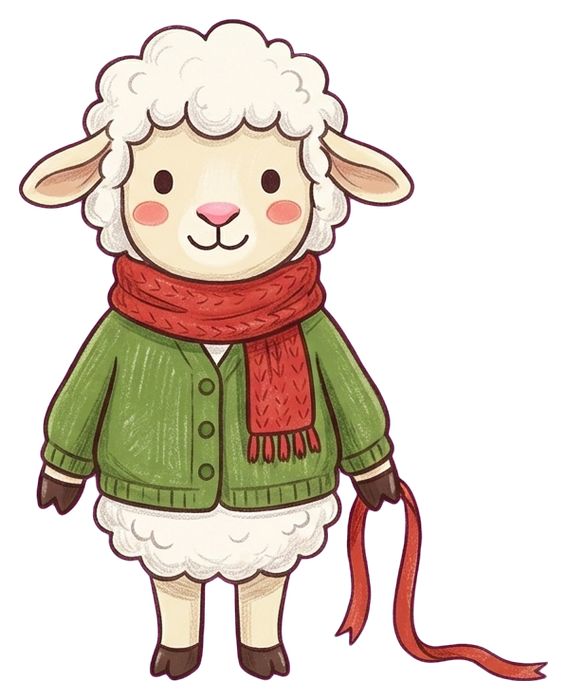
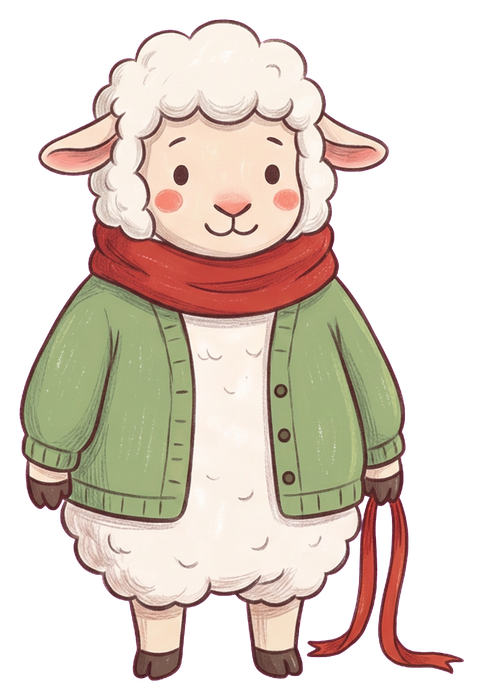
Christmas: Holly's talk pose redrawn as plump as her working pose (Higgsfield, from the working sprite), user request

diff --git a/index.html b/index.html
@@ -4046,7 +4046,8 @@ const SPRITES = {
   // the Christmas star case (scripts/cut-christmas-assets.py): Holly, May (seated, as she works), Nico
   // Holly and May look at the detective while they talk (user request); at their own place, not talking, they work
   // (the :work pose, spriteKey). Talk poses: one sheet, scripts/cut-christmas-talk.py
-  holly:{src:'assets/characters/holly-talk.png', w:567, h:700, face:'45 5 360 360', anchor:.42},
+  // redrawn as plump as her working pose (user: talking she turned too slim; scripts/cut-holly-talk.py)
+  holly:{src:'assets/characters/holly-talk.png', w:483, h:700, face:'40 0 360 360', anchor:.45},
   mae:{src:'assets/characters/mae-talk.png', w:449, h:700, face:'45 10 350 350', anchor:.45},
   // flip: drawn mirrored (user request: working, Holly faces the table on her left in the storeroom)
   'holly:work':{src:'assets/characters/holly-higgsfield.png', w:412, h:700, anchor:.5, flip:true},

diff --git a/scripts/cut-holly-talk.py b/scripts/cut-holly-talk.py
@@ -1,0 +1,29 @@
+"""Cut Holly's talk pose (redrawn as plump as her working pose, user request) out of its Higgsfield picture.
+
+usage: python scripts/cut-holly-talk.py
+  reads assets/characters/holly-talk2-higgsfield-original.png (one figure on flat magenta), writes
+  assets/characters/holly-talk.png the same way as cut-christmas-talk.py (magenta keyed out, trimmed with a 3% margin,
+  700 px high). Replaces the slimmer talk pose cut from holly-mae-talk-higgsfield-original.png.
+"""
+import importlib.util, sys
+sys.argv[1:] = ["."]   # cut-christmas-assets reads its download folder at import
+from PIL import Image
+
+spec = importlib.util.spec_from_file_location('cut', 'scripts/cut-christmas-assets.py')
+cut = importlib.util.module_from_spec(spec); spec.loader.exec_module(cut)
+
+src = Image.open('assets/characters/holly-talk2-higgsfield-original.png').convert('RGBA')
+px = src.load()
+w, h = src.size
+for y in range(h):
+    for x in range(w):
+        r, g, b, _ = px[x, y]
+        m = min(r, b) - g
+        if m > 120: px[x, y] = (0, 0, 0, 0)
+        elif m > 50:
+            a = round(255 * (120 - m) / 70)
+            k = min(r, b) - max(g, 0)
+            px[x, y] = (max(0, r - k // 2), g, max(0, b - k // 2), a)
+fig = cut.trim(src, height=700)
+fig.save('assets/characters/holly-talk.png')
+print('holly', fig.size)

diff --git a/scripts/cut-christmas-talk.py b/scripts/cut-christmas-talk.py
@@ -2,7 +2,7 @@
 
 usage: python scripts/cut-christmas-talk.py
   reads assets/characters/holly-mae-talk-higgsfield-original.png (flat magenta background), writes
-  assets/characters/<holly|mae>-talk.png the same way as cut-christmas-backs.py (magenta keyed out, each figure by its
+  assets/characters/mae-talk.png (Holly's comes from scripts/cut-holly-talk.py now) the same way as cut-christmas-backs.py (magenta keyed out, each figure by its
   columns of opaque pixels, trimmed with a 3% margin, 700 px high).
 """
 import importlib.util, sys
@@ -25,6 +25,8 @@ for y in range(h):
             k = min(r, b) - max(g, 0)
             px[x, y] = (max(0, r - k // 2), g, max(0, b - k // 2), a)
 for name, (x0, x1) in zip(['holly', 'mae'], cut.opaque_runs(src, 0, 12)):
+    # Holly's talk pose was redrawn plumper (scripts/cut-holly-talk.py): only May's is cut from this sheet now
+    if name == 'holly': continue
     fig = cut.trim(src.crop((x0, 0, x1, h)), height=700)
     fig.save(f'assets/characters/{name}-talk.png')
     print(name, x0, x1, fig.size)

diff --git a/assets/characters/README.md b/assets/characters/README.md
@@ -145,6 +145,7 @@ Draw a NEW character in exactly the same art style, proportions, size and framin
 - `scripts/cut-christmas-assets.py`로 인물마다 잘라 높이 700(`holly-`·`mae-`·`nico-`·`nico-nervous-higgsfield.png`). 말하는 입(`MOUTHS`)·얼굴 아이콘(`ui/icons-v2`)은 아직 만들지 않았다(얼굴은 `SPRITES[].face`로 그림에서 잘라 보임).
 - 흰 스티커 테두리는 `scripts/remove-sticker-border.py`로 지웠다(홀리 `200 6`, 메이·니코·니코 당황은 기본값; 잘라 낸 그림을 덮어씀, 높이 700). 위 자르기 스크립트를 다시 돌리면 그 뒤에 이것도 다시 돌린다.
 - **대화하는 모습**(사용자 요청: 일하다가 탐정을 보고 말하기): 홀리(리본을 늘어뜨리고 정면)·메이(의자에 앉은 채 가위·눈송이를 무릎에, 정면) 한 장 `c7030135-61c3-4009-8874-15aa5adb4b2f` → `holly-mae-talk-higgsfield-original.png`(16:9, 1.5크레딧, 참조 엘라 그림만, 마젠타 배경). `scripts/cut-christmas-talk.py` → `holly-talk.png`·`mae-talk.png`. 게임에서 이 그림이 기본(대화·얼굴·엔딩 방문), 자기 장소에서 대화하지 않을 때는 일하는 그림(`holly:work`·`mae:work`, `spriteKey`). 첫 시도 `47a3c1fd-…`(`holly-mae-talk-try1.png`)는 손일을 계속하는 자세라 쓰지 않고 지움(사용자 승인).
+- **홀리 대화 모습 다시 그림**(사용자 요청: 말을 걸면 통통한 양털 몸이 너무 얄쌍해짐): 일하는 그림 `holly-higgsfield.png`를 참조로 올려(media `a7f387f6-…`) 같은 통통한 몸으로 정면·리본을 늘어뜨린 자세, Nano Banana 2.1 3:4 1K 마젠타 배경, job `5e30114d-7383-4472-9fb1-a9fb46f17e81`(1.5크레딧) → `holly-talk2-higgsfield-original.png`. `scripts/cut-holly-talk.py` → `holly-talk.png`(483×700). `cut-christmas-talk.py`는 이제 메이만 자른다.
 
 ## 크리스마스 점등: 뒷모습 넷
 
